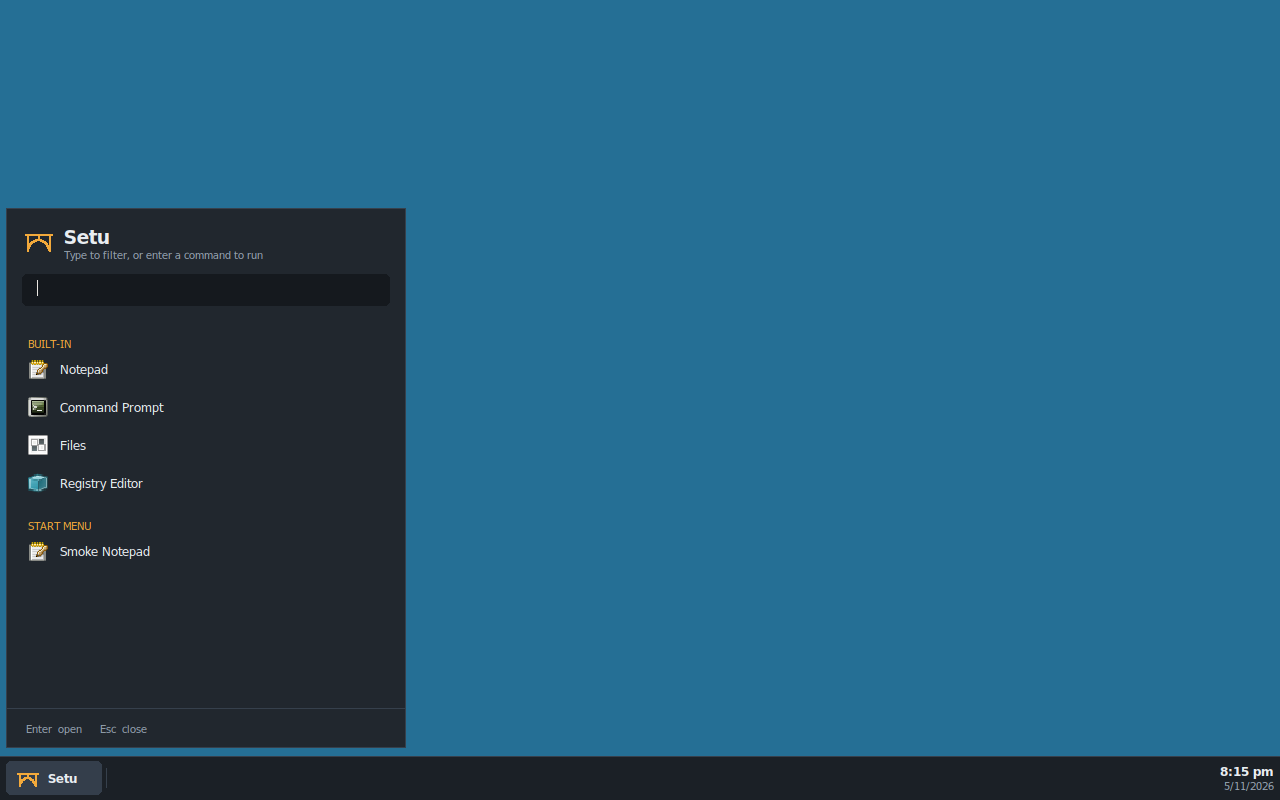
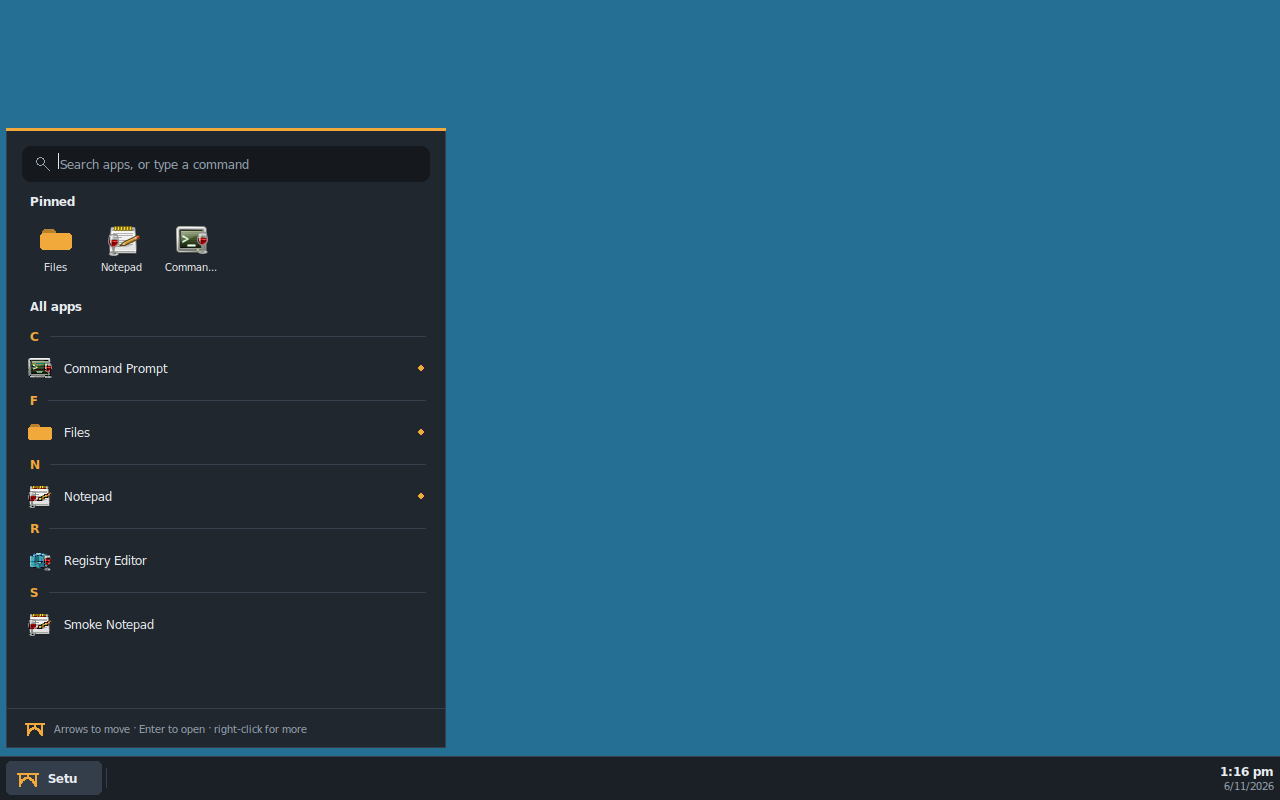
shell: Document the start menu and add screenshots.
The README describes discovery, Other apps, icons, search, pins, the
context menu, keyboard and refresh, the new forwarding options, the
start menu smoke test and two personality gaps found on the way.
Screenshots come from tools/startmenu-smoke.sh --update-docs (Xvfb);
02-launcher.png is refreshed from tools/shell-smoke.sh.

Setu-Docs: https://learn.microsoft.com/en-us/windows/win32/msi/uninstall-registry-key

Claude-Session: https://claude.ai/code/session_01FDkYpcDYFe3xe3wgGrwG4w

diff --git a/shell/README.md b/shell/README.md
@@ -1,25 +1,54 @@
 # shell/: Setu desktop shell
 
-License: MIT OR Apache-2.0. **Status: Milestone 1 taskbar + launcher.**
+License: MIT OR Apache-2.0. **Status: Milestone 3 taskbar + start menu.**
 
 The shell is a plain **Win32 application** (mingw-w64, C) that runs on the
 Setu personality. It only uses public, documented APIs from user32, gdi32,
-shell32, ole32 and kernel32, so it doubles as a test of the personality
-(docs/ARCHITECTURE.md §3.4).
+shell32, ole32, advapi32 and kernel32, so it doubles as a test of the
+personality (docs/ARCHITECTURE.md §3.4).
 
-![Launcher](docs/02-launcher.png)
+![Start menu](docs/startmenu-05-pinned.png)
 
 ## What it does
 
 - **Taskbar** docked to the bottom of the primary monitor. It registers as an
   appbar (`SHAppBarMessage`) and reserves the work area
   (`SPI_SETWORKAREA`) when the appbar alone doesn't.
-- **Start button → launcher**: built-ins (Notepad, Command Prompt, Files =
-  `explorer.exe`/`winefile.exe`, Registry Editor) plus every `.lnk` under the
-  per-user and common Start Menu *Programs* folders (`SHGetFolderPathW`,
-  resolved with `IShellLinkW`). Type to filter; if nothing matches, Enter
-  runs the text as a command (`ShellExecuteExW`; `.msi` files fall back to
-  `msiexec /i` if they have no file association).
+- **Start menu** (start button, the Windows key on its own, or Ctrl+Esc):
+  - **All apps**, A to Z under letter headers: the built-ins (Files =
+    `setu-files.exe`, else `explorer.exe`/`winefile.exe`; Notepad, Command
+    Prompt, Registry Editor) plus every `.lnk` and `.url` under the per-user
+    and common Start Menu *Programs* folders and their subfolders
+    (`SHGetFolderPathW`, `IShellLinkW`, names from `SHGetFileInfoW`). A link
+    in both folders is listed once (the per-user one wins). A folder with
+    several apps is a group you can expand (nested folders are folded into
+    it); a folder with one app just shows the app. `.appref-ms` (ClickOnce)
+    isn't listed: its format isn't publicly documented.
+  - **Other apps**: programs in the `Uninstall` keys (HKCU, HKLM, both
+    registry views) that no shortcut belongs to. `SystemComponent` entries
+    are hidden. A shortcut belongs to an entry by name, folder name,
+    `InstallLocation`, or the folder of `UninstallString`/`DisplayIcon`.
+  - **Icons** from the link's icon location, else the target's own icon or
+    its file association (`SHDefExtractIconW`, `SHGetFileInfoW`), cached per
+    file, index and size and sized for the DPI. Apps without an icon get a
+    lettered tile of our own.
+  - **Search**: type to filter (name prefix first, then word starts, then
+    anywhere, then folder name); Enter starts the best match. If nothing
+    matches, Enter runs the text as a command (`ShellExecuteExW`; `.msi`
+    files fall back to `msiexec /i` if they have no file association).
+  - **Pinned** row at the top (Files, Notepad, Command Prompt to start with):
+    right-click an app for Open, Pin/Unpin, Open file location
+    (`setu-files.exe "<folder>"`, else `explorer /select`) and Uninstall
+    (runs the `UninstallString`). Pins live in `HKCU\Software\Setu\Shell`,
+    value `Pinned` (REG_MULTI_SZ, in order).
+  - **Keyboard**: arrows move through the pins and the list, Left/Right
+    collapse and expand groups, Enter opens, the Menu key or Shift+F10 opens
+    the context menu, Esc closes.
+  - **Refresh**: when an installer adds or removes shortcuts or Uninstall
+    entries, the menu updates within a second, open or not
+    (`FindFirstChangeNotificationW` on both Programs folders,
+    `RegNotifyChangeKeyValue` on the Uninstall keys, plus
+    `SHChangeNotifyRegister`).
 - **Window buttons** for top-level windows, filtered by the documented
   taskbar rules (visible; `WS_EX_APPWINDOW` forces a button; owned or
   `WS_EX_TOOLWINDOW` windows get none). Click to activate, click the active
@@ -64,11 +93,13 @@ shell (`WM_COPYDATA`):
 
 | Option | Effect |
 |---|---|
-| `--open-launcher`, `--close-launcher`, `--toggle-launcher` | show/hide the launcher |
-| `--launch NAME` | start a launcher entry |
-| `--run CMD` | run a command, as typed in the launcher |
+| `--open-launcher`, `--close-launcher`, `--toggle-launcher` | show/hide the start menu |
+| `--launch NAME` | start a menu entry |
+| `--run CMD` | run a command, as typed in the search box |
+| `--search TEXT` | open the menu and type TEXT into the search box |
+| `--pin NAME`, `--unpin NAME` | pin or unpin a menu entry |
 | `--state-file PATH` | write the shell's state for tests (Windows path) |
-| `--reload` | rescan the Start Menu |
+| `--reload` | rescan the Start Menu and the Uninstall keys |
 | `--exit-after SEC`, `--quit` | stop the shell |
 
 ## Test
@@ -102,12 +133,29 @@ behaviour the shell relies on, each across two processes:
   of a child process's window can be read and drawn (`GetIconInfo`,
   `DrawIconEx`).
 
+`tools/startmenu-smoke.sh [--update-docs] [--keep]` tests the start menu in
+a throwaway prefix (`build/startmenu-prefix`), with shortcuts and Uninstall
+entries pointing at `shell/tests/setu-testapp.exe`: discovery (both Programs
+folders, subfolders, groups, de-duplication, icons and glyphs, Other apps,
+hidden system components), the Windows key and typing to search, Enter on
+the best match, Ctrl+Esc, arrow keys and Esc, expanding a group, a shortcut
+added and removed while the menu is open, right-click > Pin (and the
+registry value), right-click > Uninstall, the command fallback, and the pin
+after a restart. Keys and clicks are real input (`setu-probe key`, `type`,
+`click`, `rclick`). Screenshots: `shell/docs/startmenu-*.png`.
+
 ## Known gaps (personality)
 
 Found while building the shell:
 
 - Only icons of 64x64 or smaller can be drawn by another process; the shell
   falls back to the program's file icon for larger ones.
+- `SHChangeNotify` only reaches `SHChangeNotifyRegister` windows in the same
+  process, so the menu relies on `FindFirstChangeNotificationW` to hear
+  installers (reported to shell-api).
+- In the virtual desktop, a popup menu lying wholly inside another window
+  isn't painted, so the menu's context menu pops out over its right edge
+  (reported to shell-api).
 
 Fixed in the personality (checked by `setu-xproc`): the system-wide work area
 (`ABM_SETPOS`, `SPI_SETWORKAREA`), cross-process window and class icons,
@@ -128,4 +176,8 @@ learn.microsoft.com: *Using Application Desktop Toolbars*, *The Taskbar*
 `SHGetFolderPathW`, `ShellExecuteExW`, `SHDefExtractIconW`,
 `RegisterShellHookWindow`, `SystemParametersInfoW` (`SPI_SETWORKAREA`,
 `SPI_SETMINIMIZEDMETRICS`), `SetForegroundWindow`, `WM_COPYDATA`,
-`SetProcessDpiAwarenessContext`, *User Objects*.
+`SetProcessDpiAwarenessContext`, *User Objects*; for the start menu:
+*Uninstall Registry Key*, `ARPSYSTEMCOMPONENT`, `ARPPRODUCTICON`,
+`FindFirstChangeNotificationW`, `RegNotifyChangeKeyValue`,
+`SHChangeNotifyRegister`, `RegisterHotKey`, `LowLevelKeyboardProc`,
+`SHGetFileInfoW`, `TrackPopupMenu`, `RegGetValueW`.
